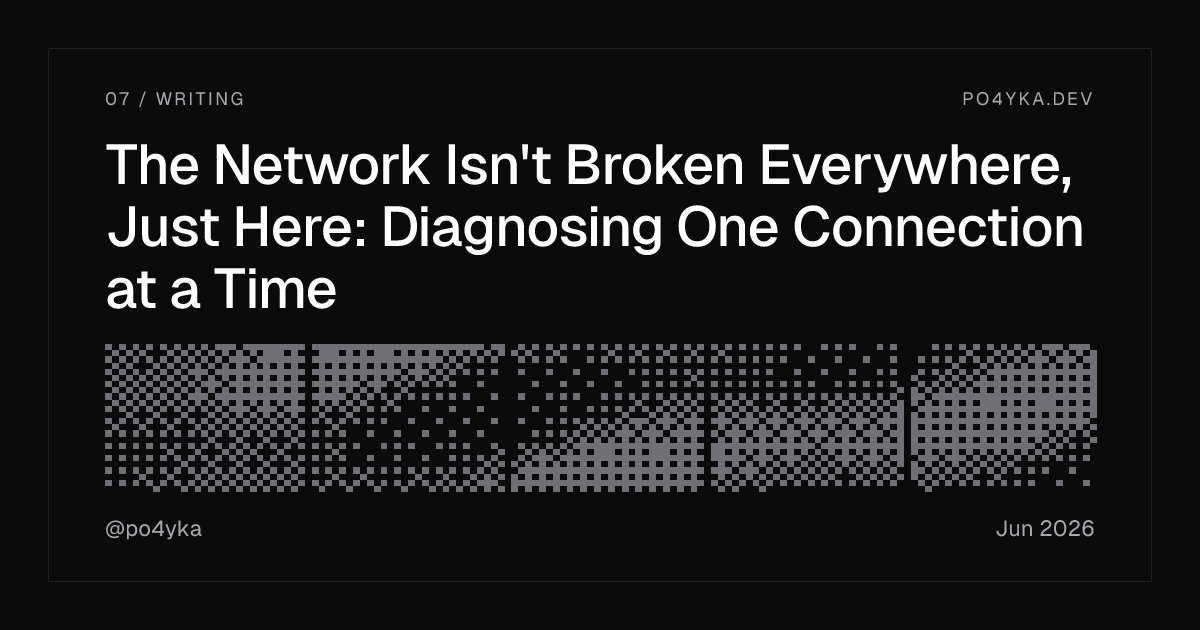
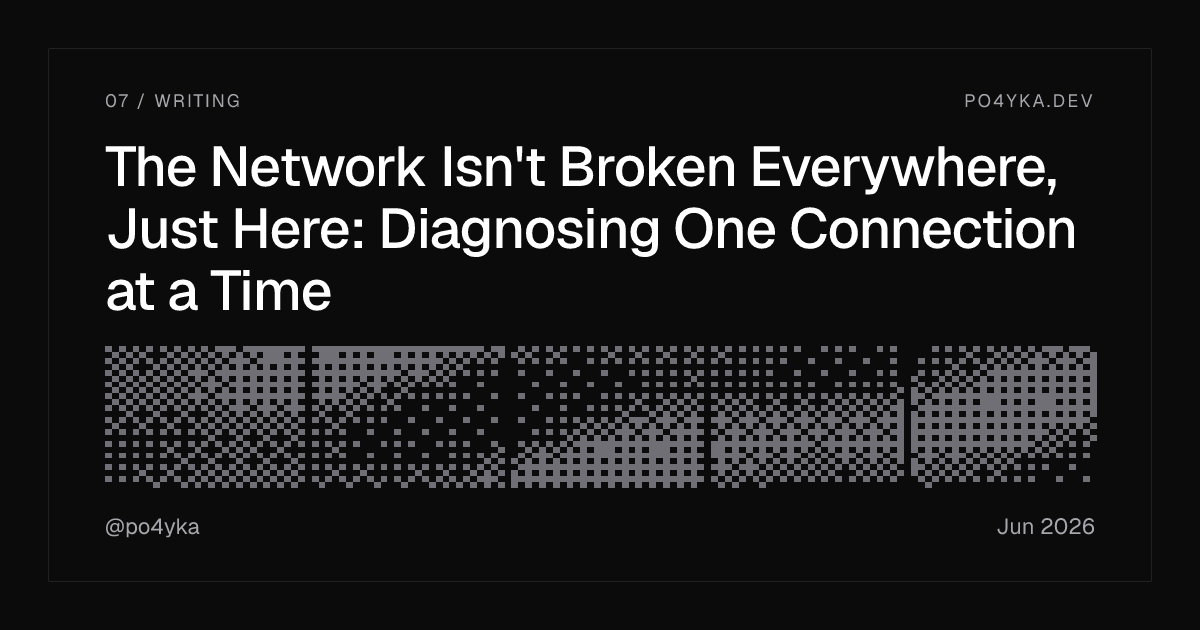
fix: render Cyrillic titles on Russian OG cards
The OG generator loaded only the Latin Geist files from @fontsource/geist-sans, so
Russian titles came out as missing-glyph boxes. Satori cannot read the site's woff2
files, so the cards now use the static Geist TTFs from the geist package (OFL), which
cover Latin and Cyrillic. @fontsource/geist-sans had no other user and is removed.

diff --git a/scripts/generate-og-images.ts b/scripts/generate-og-images.ts
@@ -31,12 +31,10 @@ async function loadBlogPosts(): Promise<
   return mod.blogPosts;
 }
 
-const FONT_REGULAR = path.resolve(
-  "node_modules/@fontsource/geist-sans/files/geist-sans-latin-400-normal.woff",
-);
-const FONT_MEDIUM = path.resolve(
-  "node_modules/@fontsource/geist-sans/files/geist-sans-latin-500-normal.woff",
-);
+// Static Geist TTFs from the `geist` package: Latin and Cyrillic, so RU titles render.
+// Satori reads TTF, OTF and WOFF only, not the site's woff2 files.
+const FONT_REGULAR = path.resolve("node_modules/geist/dist/fonts/geist-sans/Geist-Regular.ttf");
+const FONT_MEDIUM = path.resolve("node_modules/geist/dist/fonts/geist-sans/Geist-Medium.ttf");
 
 const OUTPUT_DIR = path.resolve("public/og");
 const DEFAULT_OUTPUT = path.resolve("public/og-default.png");
